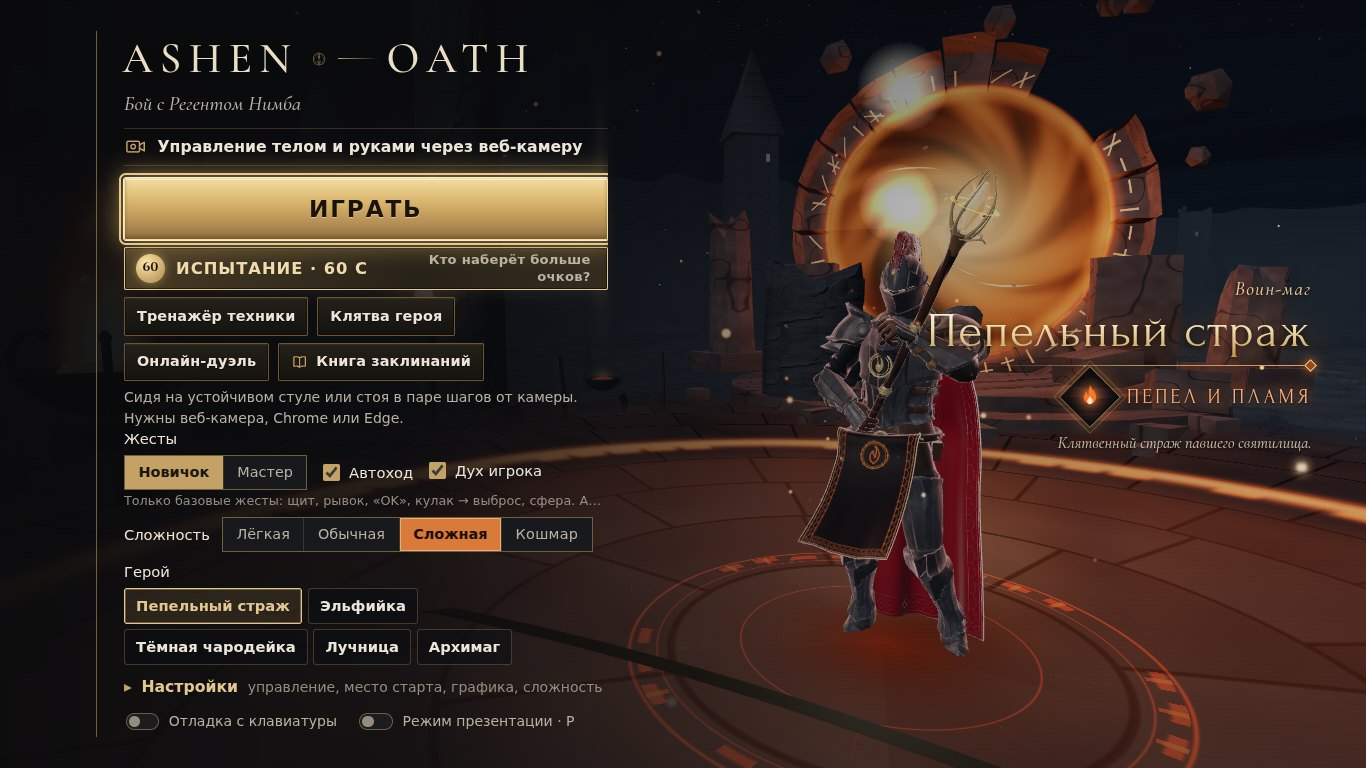
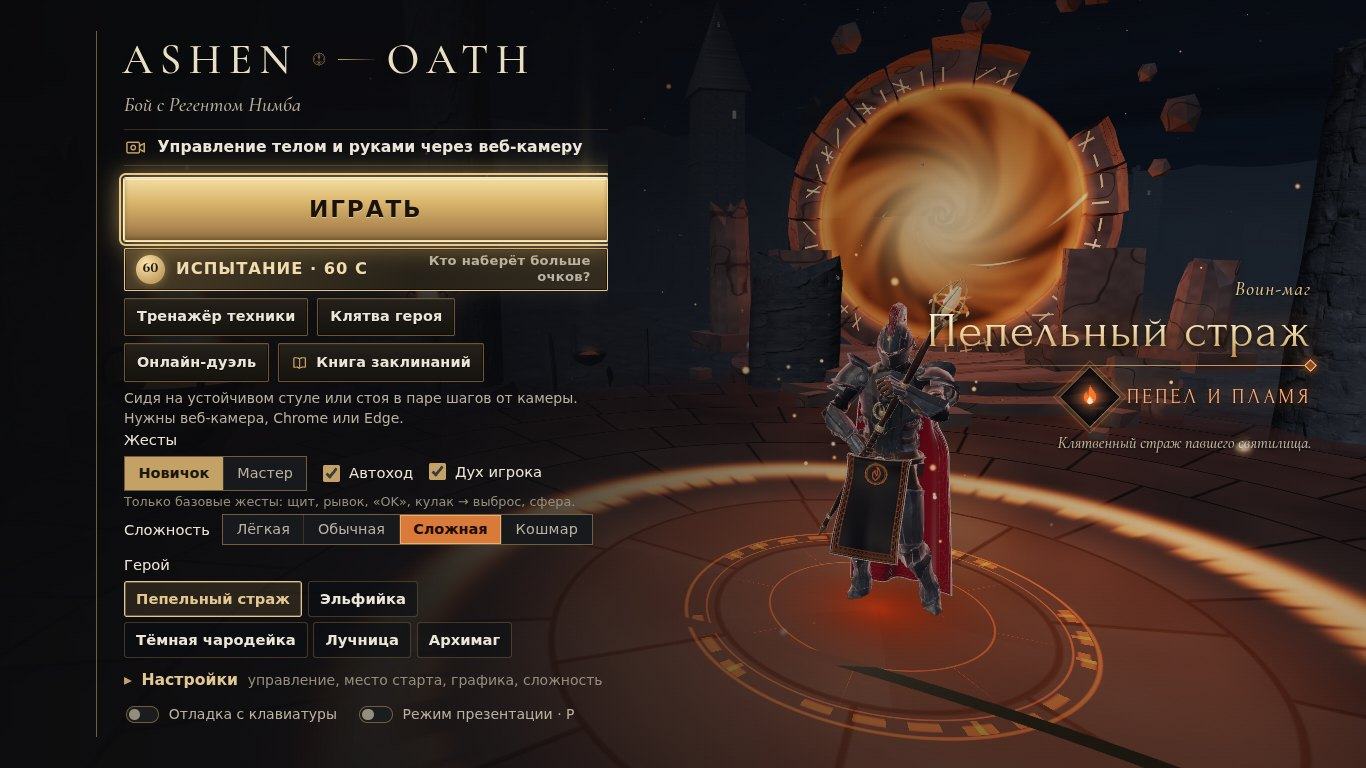
Сложность: офлайн-кэш (node tools/sw_manifest.mjs), скриншоты меню и настроек пересняты
Claude-Session: https://claude.ai/code/session_01RcvqSdDJmfBFj1UWckGJHY

diff --git a/index.html b/index.html
@@ -93,7 +93,7 @@
       var timedOut = false;
       var domReady = false;
       // Объём стартовой загрузки (статические импорты main.js + стили). Обновляет tools/sw_manifest.mjs.
-      var BOOT = /*AO_BOOT*/{"bytes":3803171,"files":59,"big":["vendor/npm/three@0.185.1/build/three.core.min.js","vendor/npm/three@0.185.1/build/three.module.min.js","modules/world.js"]}/*/AO_BOOT*/;
+      var BOOT = /*AO_BOOT*/{"bytes":3803192,"files":59,"big":["vendor/npm/three@0.185.1/build/three.core.min.js","vendor/npm/three@0.185.1/build/three.module.min.js","modules/world.js"]}/*/AO_BOOT*/;
       var prog = { bytes: 0, files: 0, pct: 0, label: 'Код игры', lastT: Date.now(), startT: Date.now(), done: {} };
       var seen = {};
       function el(id) { return document.getElementById(id); }

diff --git a/sw.js b/sw.js
@@ -17,7 +17,7 @@
 'use strict';
 
 // <AO_MANIFEST> — генерирует node tools/sw_manifest.mjs, руками не править
-const VERSION = '8627814b7e8c';
+const VERSION = '71c4d26fe707';
 const VENDOR_VERSION = 'b3f563930682';
 const SHELL = [
   "./",
